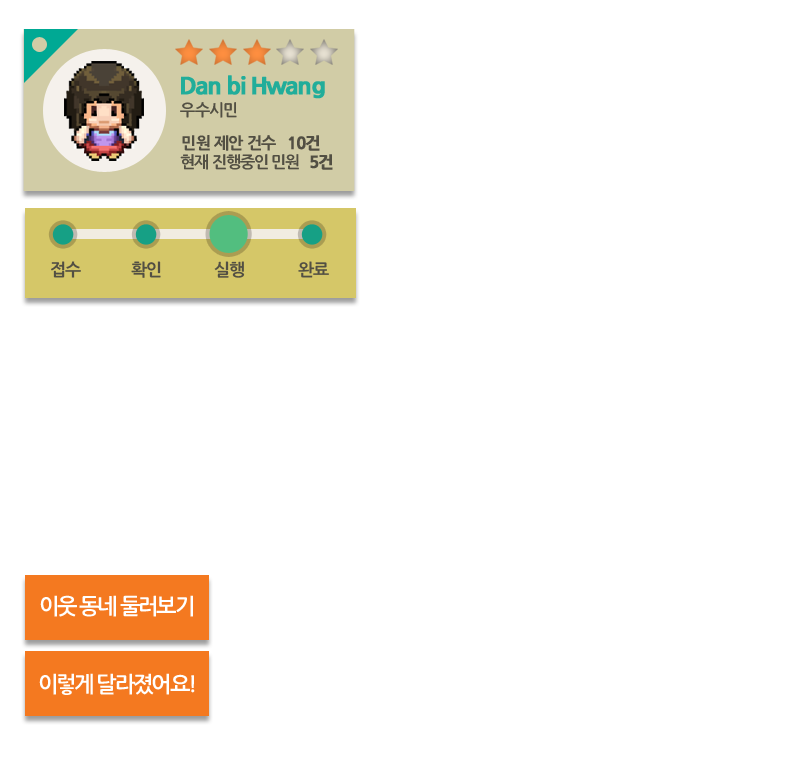
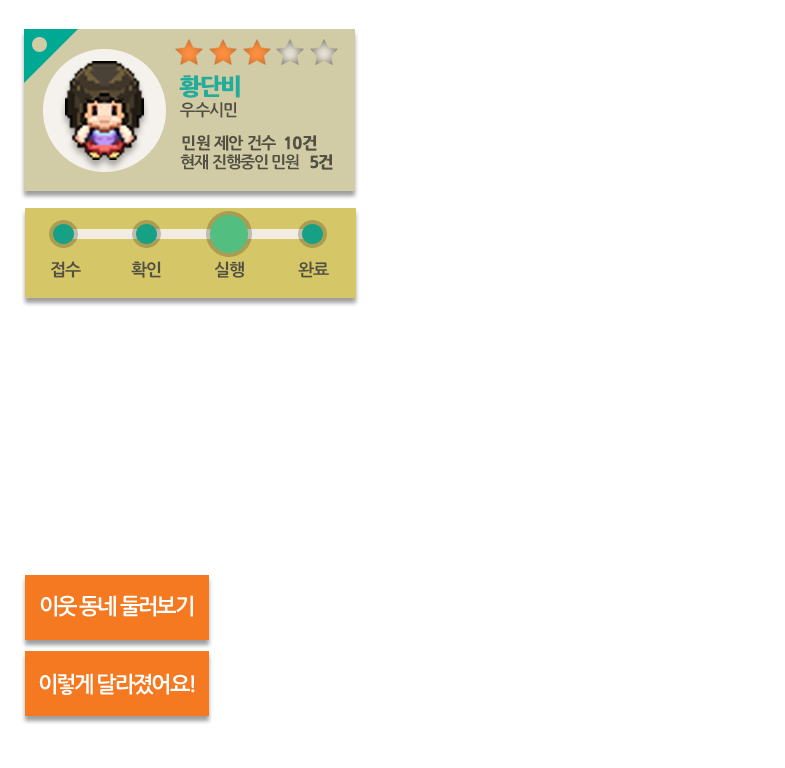
* translation

Changed region(s): [[0.0917, 0.125, 0.1834, 0.2188], [0.214, 0.0938, 0.428, 0.125], [0.3669, 0.1562, 0.3975, 0.2188]]

diff --git a/index.html b/index.html
@@ -21,7 +21,7 @@
 				<div id="screen">
 					<!-- Dialog placeholder -->
 					<div id="characterDialogLayer" class="reveal-modal">
-						<h1>Character Select</h1>
+						<h1>캐릭터 선택</h1>
 						<div id="characterScreen" align="center">
 							<ul>
 								
@@ -42,18 +42,18 @@
 						</div>
 					</div>
 		    		<div id="infoLayer" class="reveal-modal infoLayer">
-						<h1>Information</h1>
+						<h1>아이템 정보</h1>
 						<div class="location">
 							<ul>
 								<li class="type small"><div><img src="images/trash_big.png">
 							<p>쓰레기통</p></div></li>
-								<li class="normal"><img src="images/photo.png"></li>
-								<li class="normal"><img src="images/gps.png"></li>
+								<li class="normal"><img src="images/photo_example.png"></li>
+								<li class="normal"><img src="images/gps_example.png"></li>
 							</ul>
 						</div>
 						<div class="reason">
 							<ul>
-								<li class="small"><div class="questionBtn"><span>WHY?</span></div></li>
+								<li class="small"><div class="questionBtn"><span>왜?</span></div></li>
 								<li class="big align-left text"></li>
 							</ul>
 						</div>
@@ -68,17 +68,17 @@
 						</div>
 					</div>
 					<div id="dialogLayer" class="reveal-modal infoLayer">
-						<h1>New Entity</h1>
+						<h1>설치할 아이템 등록</h1>
 						<div class="location">
 							<ul>
-								<li class="type small"><div class="questionBtn"><span>WHERE?</span></div></li>
+								<li class="type small"><div class="questionBtn"><span>어디에?</span></div></li>
 								<li class="normal"><img src="images/photo.png"></li>
 								<li class="normal"><img src="images/gps.png"></li>
 							</ul>
 						</div>
 						<div class="reason">
 							<ul>
-								<li class="small"><div class="questionBtn"><span>WHY?</span></div></li>
+								<li class="small"><div class="questionBtn"><span>왜?</span></div></li>
 								<li class="big align-left text"><textarea name="reason"></textarea></li>
 							</ul>
 						</div>
